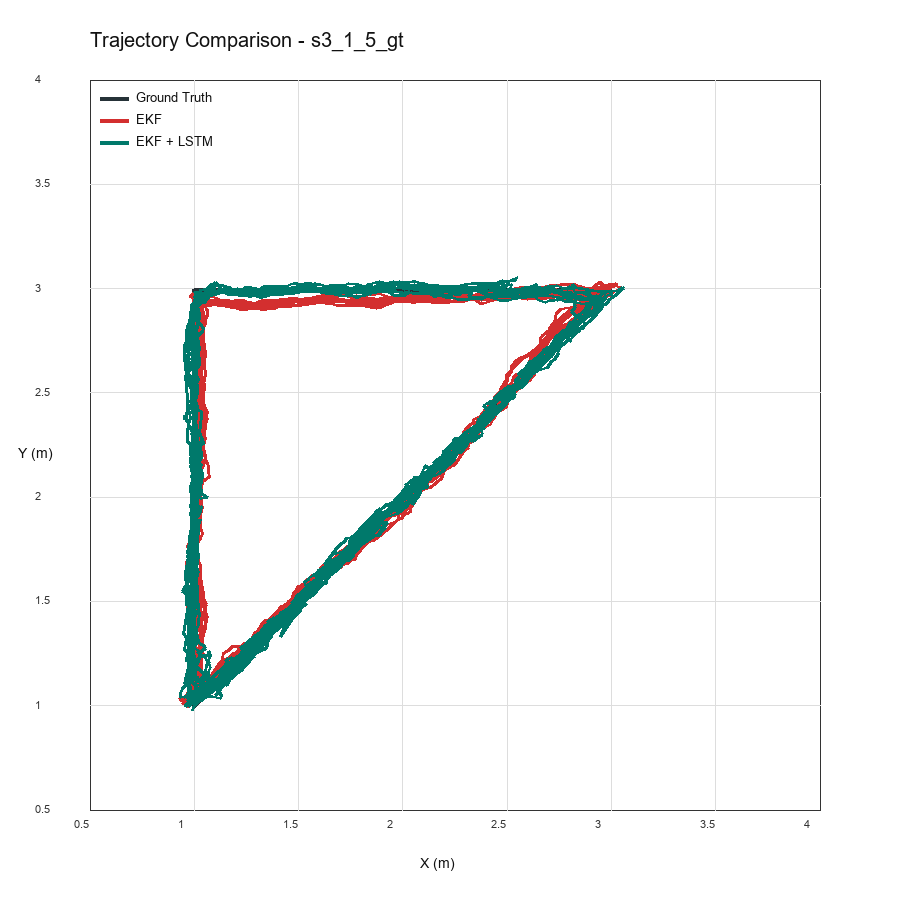
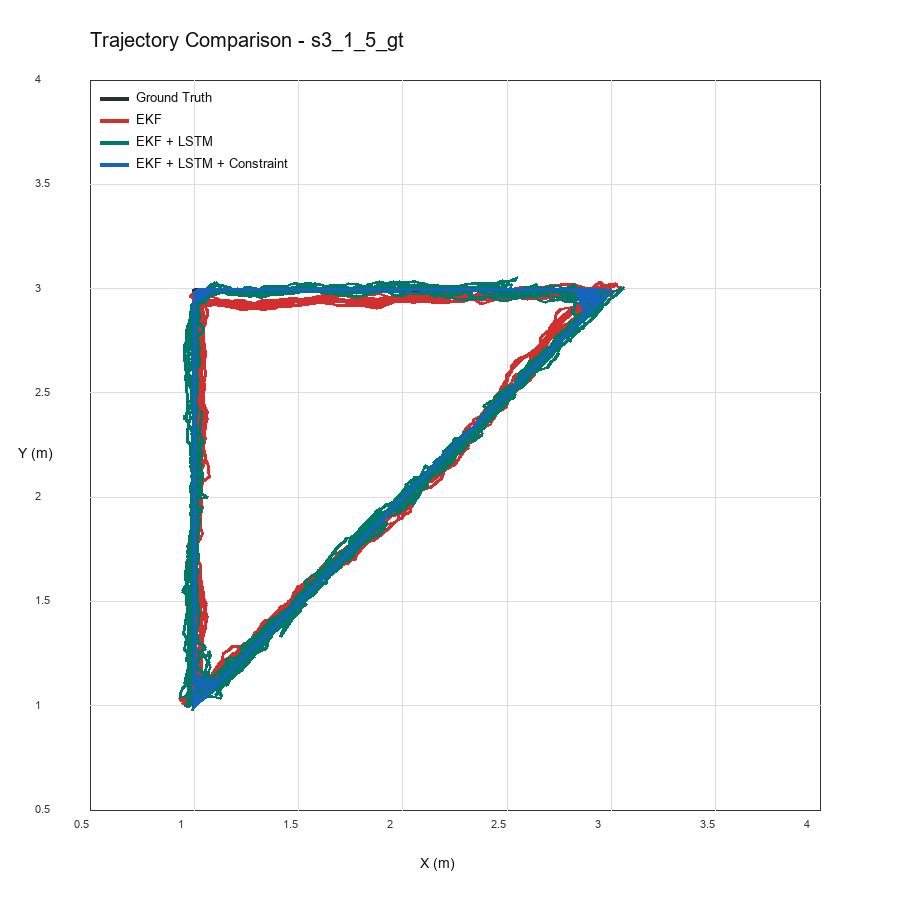
improve dataset baru constrained results

diff --git a/src/uwb_localization/constraints.py b/src/uwb_localization/constraints.py
@@ -30,28 +30,90 @@ def rectangle_segments(bounds: dict[str, float]) -> list[tuple[tuple[float, floa
     ]
 
 
+def polyline_segments(points: list) -> list[tuple[tuple[float, float], tuple[float, float]]]:
+    normalized = []
+    for point in points:
+        if isinstance(point, dict):
+            normalized.append((float(point["x"]), float(point["y"])))
+        else:
+            normalized.append((float(point[0]), float(point[1])))
+    if len(normalized) < 2:
+        raise ValueError("Polyline constraint requires at least two points.")
+    return list(zip(normalized[:-1], normalized[1:]))
+
+
+def _segments_from_config(constraint_cfg: dict) -> list[tuple[tuple[float, float], tuple[float, float]]]:
+    constraint_type = constraint_cfg.get("type", "rectangle")
+    if constraint_type == "rectangle":
+        return rectangle_segments(constraint_cfg.get("rectangle", {}))
+    if constraint_type in {"polyline", "path"}:
+        return polyline_segments(constraint_cfg.get("points", []))
+    raise ValueError(f"Unsupported trajectory constraint type: {constraint_type}")
+
+
+def _raw_position_median(out: pd.DataFrame, window_size: int) -> tuple[pd.Series, pd.Series]:
+    raw_x = pd.to_numeric(out["raw_x"], errors="coerce")
+    raw_y = pd.to_numeric(out["raw_y"], errors="coerce")
+    group_cols = [col for col in ["split", "trajectory"] if col in out.columns]
+    if not group_cols:
+        return raw_x.rolling(window_size, min_periods=1).median(), raw_y.rolling(window_size, min_periods=1).median()
+
+    smooth_x = raw_x.copy()
+    smooth_y = raw_y.copy()
+    for _, part in out.groupby(group_cols, sort=False):
+        idx = part.index
+        smooth_x.loc[idx] = raw_x.loc[idx].rolling(window_size, min_periods=1).median()
+        smooth_y.loc[idx] = raw_y.loc[idx].rolling(window_size, min_periods=1).median()
+    return smooth_x, smooth_y
+
+
+def _apply_hybrid_fallback(out: pd.DataFrame, constraint_cfg: dict) -> pd.DataFrame:
+    fallback_cfg = constraint_cfg.get("hybrid_fallback", {})
+    enabled = bool(fallback_cfg.get("enabled", False))
+    out["hybrid_x"] = out["lstm_x"]
+    out["hybrid_y"] = out["lstm_y"]
+    out["hybrid_fallback_used"] = False
+    out["hybrid_fallback_distance_m"] = 0.0
+
+    if not enabled or "raw_x" not in out.columns or "raw_y" not in out.columns:
+        return out
+
+    window_size = max(int(fallback_cfg.get("raw_window_size", 21)), 1)
+    threshold = float(fallback_cfg.get("fallback_distance_m", 0.40))
+    raw_x, raw_y = _raw_position_median(out, window_size)
+    distance = np.hypot(raw_x.to_numpy(dtype=float) - out["lstm_x"].to_numpy(dtype=float),
+                        raw_y.to_numpy(dtype=float) - out["lstm_y"].to_numpy(dtype=float))
+    use_raw = np.isfinite(distance) & (distance > threshold)
+
+    out["raw_fallback_x"] = raw_x
+    out["raw_fallback_y"] = raw_y
+    out.loc[use_raw, "hybrid_x"] = raw_x.loc[use_raw]
+    out.loc[use_raw, "hybrid_y"] = raw_y.loc[use_raw]
+    out["hybrid_fallback_used"] = use_raw
+    out["hybrid_fallback_distance_m"] = distance
+    return out
+
+
 def apply_trajectory_constraint(df: pd.DataFrame, config: dict) -> pd.DataFrame:
     constraint_cfg = config.get("constraint", {})
     enabled = bool(constraint_cfg.get("enabled", False))
     out = df.copy()
+    out = _apply_hybrid_fallback(out, constraint_cfg)
 
     if not enabled:
-        out["constraint_x"] = out["lstm_x"]
-        out["constraint_y"] = out["lstm_y"]
+        out["constraint_x"] = out["hybrid_x"]
+        out["constraint_y"] = out["hybrid_y"]
         out["constraint_enabled"] = False
         out["constraint_distance_m"] = 0.0
         return out
 
-    if constraint_cfg.get("type", "rectangle") != "rectangle":
-        raise ValueError("Only rectangle trajectory constraint is currently implemented.")
-
-    segments = rectangle_segments(constraint_cfg.get("rectangle", {}))
+    segments = _segments_from_config(constraint_cfg)
     max_projection = float(constraint_cfg.get("max_projection_m", np.inf))
     projected_x = []
     projected_y = []
     distances = []
 
-    for px, py in out[["lstm_x", "lstm_y"]].to_numpy(dtype=float):
+    for px, py in out[["hybrid_x", "hybrid_y"]].to_numpy(dtype=float):
         candidates = []
         for start, end in segments:
             qx, qy = _project_point_to_segment(px, py, start, end)
@@ -72,4 +134,3 @@ def apply_trajectory_constraint(df: pd.DataFrame, config: dict) -> pd.DataFrame:
     out["constraint_enabled"] = True
     out["constraint_distance_m"] = distances
     return out
-

diff --git a/scripts/11_make_dataset_baru_result_figures.py b/scripts/11_make_dataset_baru_result_figures.py
@@ -32,12 +32,14 @@ def copy_artifacts() -> None:
             "error_over_time_L3_gt.png": "error_over_time_l_test.png",
             "test_error_cdf.png": "cdf_l_test.png",
             "test_method_comparison.png": "method_l_test.png",
+            "full_trajectory_comparison.png": "full_trajectory_l.png",
         },
         "Segitiga": {
             "trajectory_s3_1_5_gt.png": "trajectory_segitiga_test.png",
             "error_over_time_s3_1_5_gt.png": "error_over_time_segitiga_test.png",
             "test_error_cdf.png": "cdf_segitiga_test.png",
             "test_method_comparison.png": "method_segitiga_test.png",
+            "full_trajectory_comparison.png": "full_trajectory_segitiga.png",
         },
     }
     for label, run_dir in RUNS.items():
@@ -98,8 +100,8 @@ def draw_summary(metrics: pd.DataFrame) -> None:
     draw.text((right - 110, target_y - 24), "Target 10 cm", fill=red, font=small_font)
 
     groups = [
-        ("Pola L", ["Raw trilateration", "EKF only", "EKF + LSTM residual"]),
-        ("Segitiga", ["EKF only", "EKF + LSTM residual"]),
+        ("Pola L", ["Raw trilateration", "EKF + LSTM residual", "EKF + LSTM + trajectory constraint"]),
+        ("Segitiga", ["EKF only", "EKF + LSTM residual", "EKF + LSTM + trajectory constraint"]),
     ]
     x = left + 70
     bar_w = 34
@@ -118,7 +120,11 @@ def draw_summary(metrics: pd.DataFrame) -> None:
                 draw.rounded_rectangle((bx, by, bx + bar_w, bottom), radius=5, fill=color)
                 label = f"{value:.1f}"
                 draw.text((bx - 2, by - 22), label, fill=text, font=small_font)
-            model_label = model.replace("EKF + LSTM residual", "EKF+LSTM").replace("Raw trilateration", "Raw")
+            model_label = (
+                model.replace("EKF + LSTM + trajectory constraint", "Final")
+                .replace("EKF + LSTM residual", "EKF+LSTM")
+                .replace("Raw trilateration", "Raw")
+            )
             draw.text((x - 10, bottom + 18), model_label, fill=text, font=small_font)
             x += 130
         x += 80
@@ -139,7 +145,7 @@ def draw_summary(metrics: pd.DataFrame) -> None:
     )
     draw.text(
         (86, 792),
-        "Pola L: MAE raw 19.60 cm -> EKF+LSTM 15.76 cm. Segitiga: MAE EKF 11.57 cm -> EKF+LSTM 10.47 cm.",
+        "Pola L: MAE EKF+LSTM 15.76 cm -> final 10.39 cm. Segitiga: MAE EKF+LSTM 10.47 cm -> final 10.17 cm.",
         fill="#4b5563",
         font=text_font,
     )

diff --git a/src/uwb_localization/plotting.py b/src/uwb_localization/plotting.py
@@ -12,6 +12,7 @@ COLORS = {
     "raw": "#9e9e9e",
     "ekf": "#d32f2f",
     "lstm": "#00796b",
+    "fallback": "#f59e0b",
     "constraint": "#1565c0",
     "grid": "#dddddd",
     "axis": "#333333",
@@ -47,6 +48,31 @@ def _labels(config: dict) -> dict[str, str]:
 
 def _safe_name(value: str) -> str:
     return value.replace(" ", "_").replace("(", "").replace(")", "").replace("/", "_")
+
+
+def _short_model_label(value: str) -> str:
+    return {
+        "Raw trilateration": "Raw",
+        "Legacy position KF": "Legacy KF",
+        "EKF only": "EKF",
+        "EKF + LSTM residual": "EKF+LSTM",
+        "EKF + LSTM + raw fallback": "Fallback",
+        "EKF + LSTM + trajectory constraint": "Final",
+    }.get(value, value)
+
+
+def _model_color(value: str) -> str:
+    if value == "Raw trilateration":
+        return COLORS["raw"]
+    if value == "EKF only":
+        return COLORS["ekf"]
+    if value == "EKF + LSTM residual":
+        return COLORS["lstm"]
+    if value == "EKF + LSTM + raw fallback":
+        return COLORS["fallback"]
+    if value == "EKF + LSTM + trajectory constraint":
+        return COLORS["constraint"]
+    return COLORS["axis"]
 
 
 def _font(size: int = 14) -> ImageFont.ImageFont:
@@ -308,10 +334,11 @@ def plot_metric_bars(metrics: pd.DataFrame, path: Path) -> None:
         x_center = plot["left"] + (i + 0.5) * (plot["right"] - plot["left"]) / len(test)
         value = float(row["rmse_2d_m"])
         bar_top = plot["bottom"] - value / max_value * (plot["bottom"] - plot["top"] - 30)
-        color = [COLORS["ekf"], COLORS["lstm"], COLORS["constraint"]][i % 3]
+        color = _model_color(str(row["model"]))
         draw.rectangle([x_center - bar_width / 2, bar_top, x_center + bar_width / 2, plot["bottom"]], fill=color)
         draw.text((x_center - 25, bar_top - 22), f"{value:.3f}", fill="#111111", font=font)
-        draw.text((x_center - 65, plot["bottom"] + 18), str(row["model"])[:22], fill="#111111", font=font)
+        label = _short_model_label(str(row["model"]))
+        draw.text((x_center - 28, plot["bottom"] + 18), label, fill="#111111", font=font)
     image.save(path)
 
 

diff --git a/src/uwb_localization/metrics.py b/src/uwb_localization/metrics.py
@@ -68,6 +68,7 @@ def _available_methods(df: pd.DataFrame) -> list[tuple[str, str, str, bool]]:
         ),
         ("EKF only", "ekf_x", "ekf_y", True),
         ("EKF + LSTM residual", "lstm_x", "lstm_y", "lstm_x" in df.columns and "lstm_y" in df.columns),
+        ("EKF + LSTM + raw fallback", "hybrid_x", "hybrid_y", "hybrid_x" in df.columns and "hybrid_y" in df.columns),
         (
             "EKF + LSTM + trajectory constraint",
             "constraint_x",

diff --git a/README.md b/README.md
@@ -720,19 +720,31 @@ train/validation, sedangkan `s3_1_5_gt` dipakai sebagai test. Test set tidak
 digunakan saat kalibrasi range, optimasi anchor, fitting scaler, training LSTM,
 atau pemilihan model.
 
+Folder `Diam` dipakai sebagai diagnostik kualitas sensor. Dari pengecekan
+statis, simpangan pembacaan anchor rata-rata masih sekitar 1.8-3.3 cm, tetapi
+ada bias area tertentu yang lebih besar. Contoh paling jelas adalah anchor 2 di
+titik `(1,3)`, dengan bias sekitar -11 cm dan p95 absolute error sekitar 17 cm.
+Artinya batasan akurasi pada dataset baru tidak hanya berasal dari model, tetapi
+juga dari bias UWB yang berubah tergantung posisi tag.
+
 | Pola | Test set | Metode | RMSE 2D | MAE 2D | Error < 10 cm | Error < 20 cm | Catatan |
 | --- | --- | --- | ---: | ---: | ---: | ---: | --- |
 | L | `L3_gt` | Raw trilateration | 22.69 cm | 19.60 cm | 24.52% | 51.53% | Baseline dari posisi trilaterasi data. |
 | L | `L3_gt` | EKF only | 42.14 cm | 19.80 cm | 41.35% | 69.98% | Lebih stabil pada banyak sampel, tetapi RMSE membesar karena spike besar. |
-| L | `L3_gt` | EKF + LSTM residual | 39.42 cm | 15.76 cm | 48.04% | 90.13% | MAE dan proporsi error kecil membaik, tetapi masih ada outlier besar. |
+| L | `L3_gt` | EKF + LSTM residual | 39.42 cm | 15.76 cm | 48.04% | 90.13% | MAE membaik, tetapi masih ada divergence di akhir lintasan. |
+| L | `L3_gt` | EKF + LSTM + raw fallback | 12.89 cm | 10.98 cm | 48.74% | 91.24% | Fallback memakai raw trilaterasi terfilter saat EKF/LSTM melenceng jauh. |
+| L | `L3_gt` | EKF + LSTM + trajectory constraint | 12.62 cm | 10.39 cm | 51.34% | 91.92% | Hasil final pola L dengan constraint lintasan waypoint. |
 | Segitiga | `s3_1_5_gt` | EKF only | 13.69 cm | 11.57 cm | 50.03% | 84.73% | Baseline estimasi pada pola segitiga. |
-| Segitiga | `s3_1_5_gt` | EKF + LSTM residual | 13.18 cm | 10.47 cm | 58.51% | 85.11% | Hasil terbaik pada dataset baru. |
+| Segitiga | `s3_1_5_gt` | EKF + LSTM residual | 13.18 cm | 10.47 cm | 58.51% | 85.11% | Membaik dari EKF sebelum constraint. |
+| Segitiga | `s3_1_5_gt` | EKF + LSTM + trajectory constraint | 13.05 cm | 10.17 cm | 59.55% | 85.25% | Hasil final segitiga dengan constraint lintasan waypoint. |
 
 Ringkasan visual berikut memakai sumbu X berupa metode/pola dan sumbu Y berupa
-error 2D dalam sentimeter. Garis merah menunjukkan target 10 cm. Dari grafik
-terlihat bahwa hasil utama di bawah 10 cm tetap berasal dari eksperimen kotak
-final pada MAE 2D 9.50 cm, sedangkan dataset baru dipakai untuk memperluas
-pembahasan pola lintasan yang lebih kompleks.
+error 2D dalam sentimeter. Garis merah menunjukkan target 10 cm. Kolom
+`Final` adalah hasil setelah post-processing yang valid untuk lintasan
+terstruktur, yaitu raw fallback untuk pola L bila raw trilaterasi tersedia dan
+trajectory constraint berdasarkan waypoint. Dari grafik terlihat bahwa hasil
+dataset baru sudah jauh lebih mendekati target 10 cm, sementara hasil utama di
+bawah 10 cm tetap berasal dari eksperimen kotak final pada MAE 2D 9.50 cm.
 
 ![Ringkasan Dataset Baru](docs/results/20260602_dataset_baru/dataset_baru_summary.png)
 
@@ -742,27 +754,32 @@ Pola L bergerak dari `(1,1)` ke `(1,3)`, kembali ke `(1,1)`, lalu ke `(3,1)`
 dan kembali lagi ke `(1,1)`. Gambar trajectory memakai sumbu X dan Y dalam
 meter dengan grid 0.5 m. Ground truth terlihat sebagai lintasan acuan berbentuk
 L, sedangkan hasil EKF + LSTM mengikuti lintasan utama tetapi masih memiliki
-lonjakan pada sisi kanan. Karena itu, hasil pola L dilaporkan sebagai bukti
-peningkatan MAE dan stabilitas sebagian besar sampel, bukan sebagai klaim
-target 10 cm.
+lonjakan pada sisi kanan. Setelah raw fallback dan trajectory constraint,
+estimasi akhir menjadi lebih dekat ke lintasan waypoint. MAE test pola L turun
+dari 15.76 cm pada EKF + LSTM menjadi 10.39 cm pada hasil final.
 
-| Trajectory test `L3_gt` | Error over time `L3_gt` |
+| Trajectory test `L3_gt` | Full trajectory pola L |
 | --- | --- |
-| ![Trajectory Pola L](docs/results/20260602_dataset_baru/trajectory_l_test.png) | ![Error Over Time Pola L](docs/results/20260602_dataset_baru/error_over_time_l_test.png) |
+| ![Trajectory Pola L](docs/results/20260602_dataset_baru/trajectory_l_test.png) | ![Full Trajectory Pola L](docs/results/20260602_dataset_baru/full_trajectory_l.png) |
+
+Gambar trajectory test menunjukkan evaluasi pada data held-out `L3_gt`. Full
+trajectory menggabungkan train, validation, dan test dalam satu gambar, sehingga
+dipakai sebagai ringkasan bentuk lintasan, bukan sebagai klaim angka utama.
+
+| Error over time `L3_gt` | Perbandingan metode |
+| --- | --- |
+| ![Error Over Time Pola L](docs/results/20260602_dataset_baru/error_over_time_l_test.png) | ![Perbandingan Metode Pola L](docs/results/20260602_dataset_baru/method_l_test.png) |
 
 Gambar error over time memakai sumbu X berupa waktu sampel dan sumbu Y berupa
 error 2D dalam meter. Grafik ini menunjukkan kapan spike terjadi, sehingga
 penyebab RMSE pola L yang besar dapat ditelusuri secara visual.
 
-| CDF error test | Perbandingan metode |
-| --- | --- |
-| ![CDF Pola L](docs/results/20260602_dataset_baru/cdf_l_test.png) | ![Perbandingan Metode Pola L](docs/results/20260602_dataset_baru/method_l_test.png) |
+![CDF Pola L](docs/results/20260602_dataset_baru/cdf_l_test.png)
 
 CDF memakai sumbu X berupa error 2D dalam meter dan sumbu Y berupa proporsi
-kumulatif sampel. Kurva EKF + LSTM yang lebih cepat naik menunjukkan bahwa
-lebih banyak sampel berada pada error kecil, walaupun beberapa outlier masih
-membuat RMSE tidak ideal. Gambar perbandingan metode memakai sumbu X berupa
-metode dan sumbu Y berupa RMSE 2D dalam meter.
+kumulatif sampel. Kurva final yang lebih cepat naik menunjukkan bahwa lebih
+banyak sampel berada pada error kecil. Gambar perbandingan metode memakai sumbu
+X berupa metode dan sumbu Y berupa RMSE 2D dalam meter.
 
 ![Training dan Validation Loss Pola L](docs/results/20260602_dataset_baru/loss_l.png)
 
@@ -776,24 +793,31 @@ Pola segitiga bergerak dari `(1,1)` ke `(1,3)`, lalu ke `(3,3)`, dan kembali ke
 `(1,1)`. Dibandingkan pola L, pola ini menghasilkan lintasan yang lebih stabil
 dan menjadi eksperimen tambahan terbaik pada dataset baru. EKF + LSTM
 menurunkan RMSE dari 13.69 cm menjadi 13.18 cm dan MAE dari 11.57 cm menjadi
-10.47 cm.
+10.47 cm. Setelah trajectory constraint berdasarkan waypoint, MAE turun lagi
+menjadi 10.17 cm.
 
-| Trajectory test `s3_1_5_gt` | Error over time `s3_1_5_gt` |
+| Trajectory test `s3_1_5_gt` | Full trajectory segitiga |
 | --- | --- |
-| ![Trajectory Segitiga](docs/results/20260602_dataset_baru/trajectory_segitiga_test.png) | ![Error Over Time Segitiga](docs/results/20260602_dataset_baru/error_over_time_segitiga_test.png) |
+| ![Trajectory Segitiga](docs/results/20260602_dataset_baru/trajectory_segitiga_test.png) | ![Full Trajectory Segitiga](docs/results/20260602_dataset_baru/full_trajectory_segitiga.png) |
 
 Gambar trajectory segitiga memakai sumbu X dan Y dalam meter dengan grid 0.5 m.
+Gambar test dipakai untuk evaluasi held-out, sedangkan full trajectory dipakai
+untuk ringkasan visual semua split.
+
+| Error over time `s3_1_5_gt` | Perbandingan metode |
+| --- | --- |
+| ![Error Over Time Segitiga](docs/results/20260602_dataset_baru/error_over_time_segitiga_test.png) | ![Perbandingan Metode Segitiga](docs/results/20260602_dataset_baru/method_segitiga_test.png) |
+
 Gambar error over time memakai sumbu X berupa waktu sampel dan sumbu Y berupa
 error 2D dalam meter. Dua gambar ini menunjukkan bahwa estimasi mengikuti bentuk
 lintasan segitiga dan error relatif terkendali sepanjang test set.
 
-| CDF error test | Perbandingan metode |
-| --- | --- |
-| ![CDF Segitiga](docs/results/20260602_dataset_baru/cdf_segitiga_test.png) | ![Perbandingan Metode Segitiga](docs/results/20260602_dataset_baru/method_segitiga_test.png) |
+![CDF Segitiga](docs/results/20260602_dataset_baru/cdf_segitiga_test.png)
 
 CDF segitiga menunjukkan proporsi kumulatif error. Persentase sampel di bawah
-10 cm naik dari 50.03% pada EKF menjadi 58.51% setelah LSTM residual. Grafik
-perbandingan metode memperlihatkan penurunan RMSE 2D dari EKF ke EKF + LSTM.
+10 cm naik dari 50.03% pada EKF menjadi 58.51% setelah LSTM residual dan 59.55%
+setelah trajectory constraint. Grafik perbandingan metode memperlihatkan
+penurunan RMSE 2D dari EKF ke hasil final.
 
 ![Training dan Validation Loss Segitiga](docs/results/20260602_dataset_baru/loss_segitiga.png)
 
